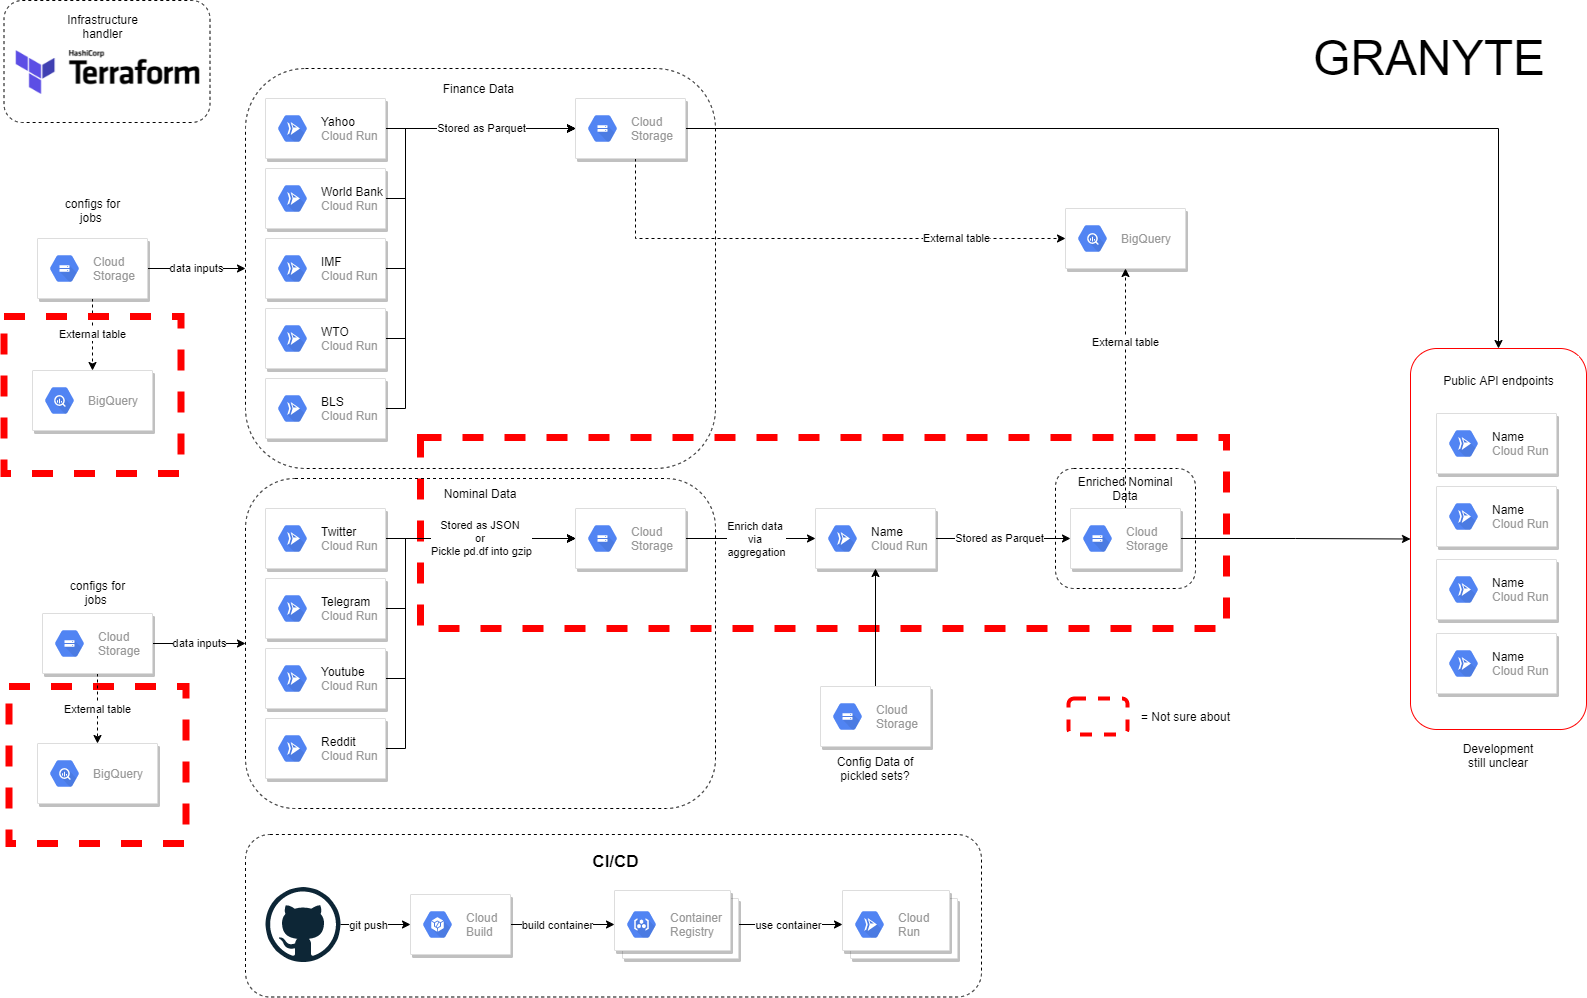
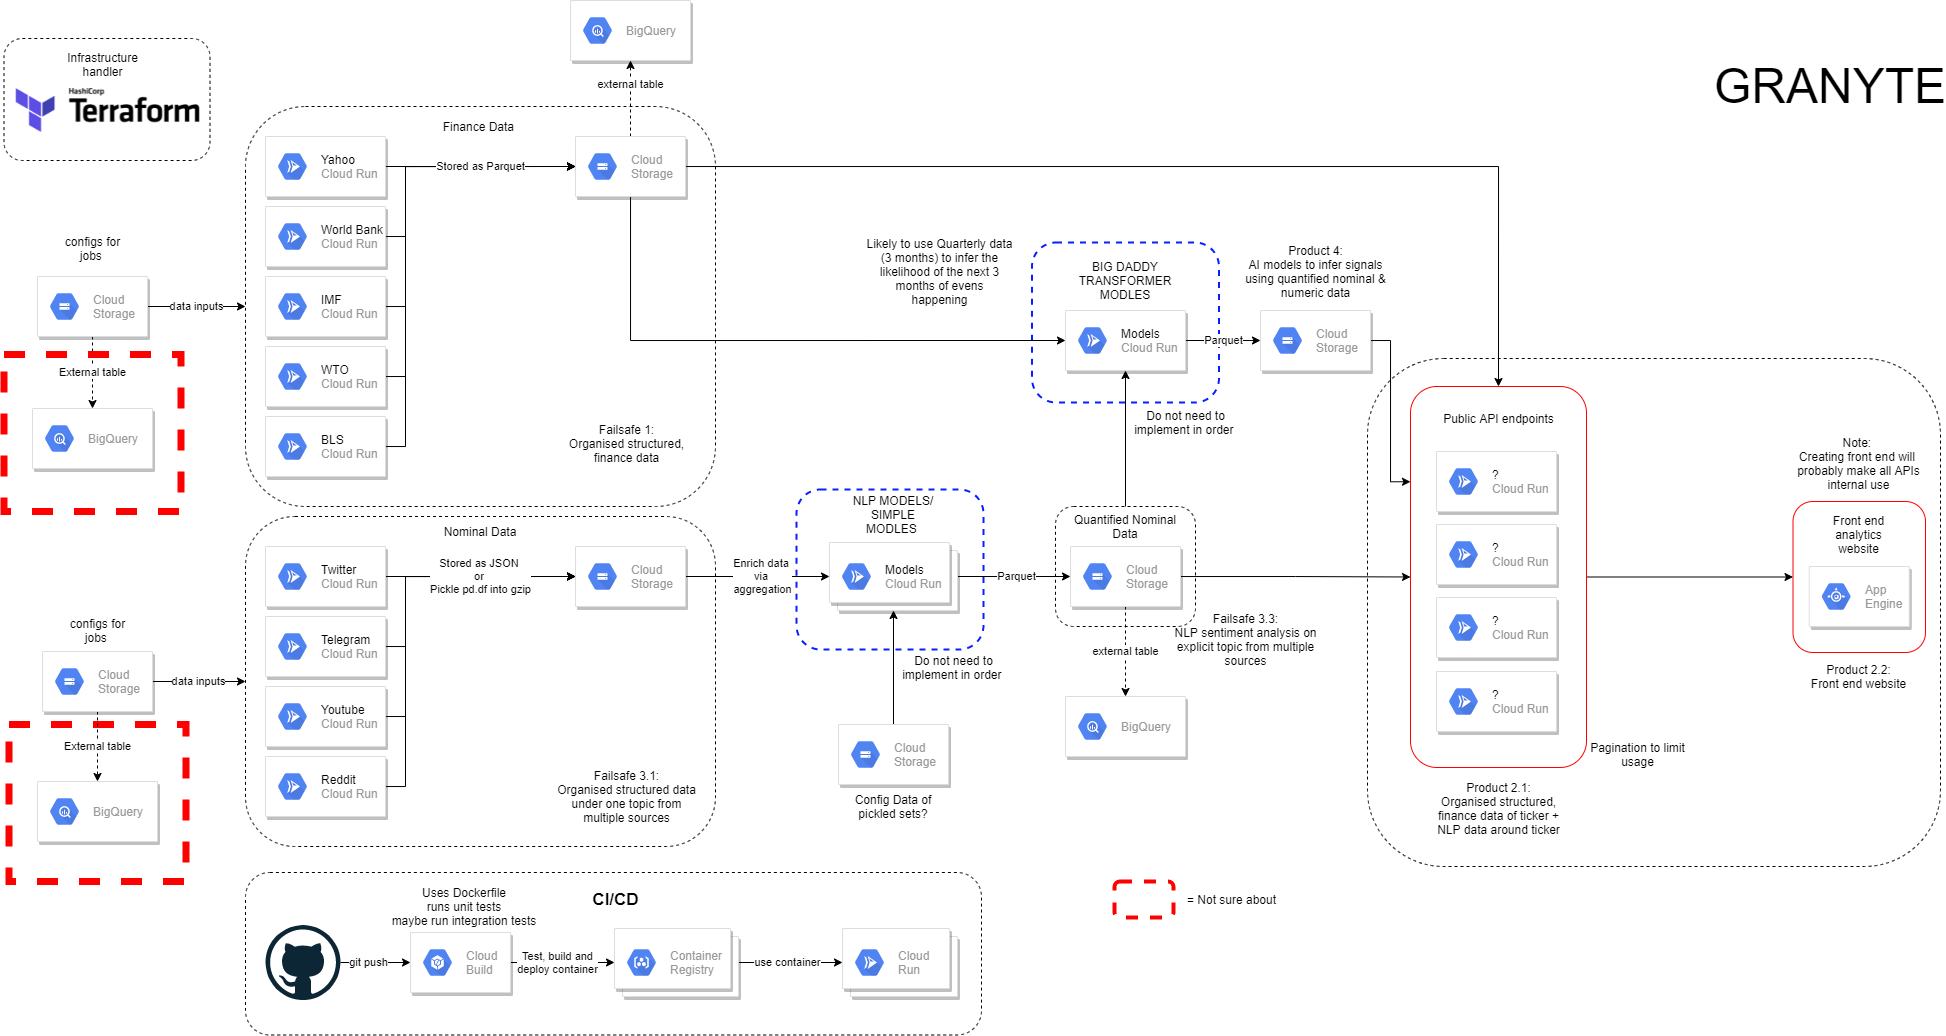
update uml and tech stack

diff --git a/README.md b/README.md
@@ -1,5 +1,5 @@
 # wiki
-contains architecture/governance documents 
+contains architecture/governance documents on how this project will be built.
 
 **Content**
 ```bash
@@ -33,9 +33,58 @@ Google cloud platform (**GCP**) will be the main platform used to develop this s
 
 ### Tech Stack
 
-*work in progress*
+#### DevOps
 
+Infrastructure handler (any one):
+- Terraform
+- Pulumi
+- Deployment manager (not recommended)
 
+Python3 (Basic, able to complete easy leetcode questions):
+- pytest
+- unittest
+- pulumi
+
+General:
+- Docker/Containerd
+- GCP: Cloud Build
+- GCP: Secret Manager 
+- GCP: IAM, roles, policies & Service accounts
+- Good understanding of Scalable architecture
+
+#### DE, DS, MLE
+
+Python3 (Basic, able to complete easy leetcode questions):
+- jupyter notebook
+- numpy
+- pandas
+- pytorch/keras (not chosen as of yet)
+
+General:
+- Docker/Containerd
+- GCP: Cloud Build
+- GCP: Cloud Run/GCP: Cloud Function
+- GCP: Big Query
+- SQL (Basic, able to complete easy leecode questions)
+- Understand how transformers work (but do not need to know how to program them)
+- Know how to setup GPU acceleration
+
+#### SWE, BED (in late stages)
+
+JavaScript (Basic, able to complete easy leetcode questions):
+- typescript
+- node js 
+- express
+
+Python3 (Basic, able to complete easy leetcode questions):
+- Django
+- Flask 
+
+General:
+- Docker/Containerd
+- GCP: Cloud Build
+- GCP: App Engine
+- Good understanding how to build 
 
 ##  Data sources
 
